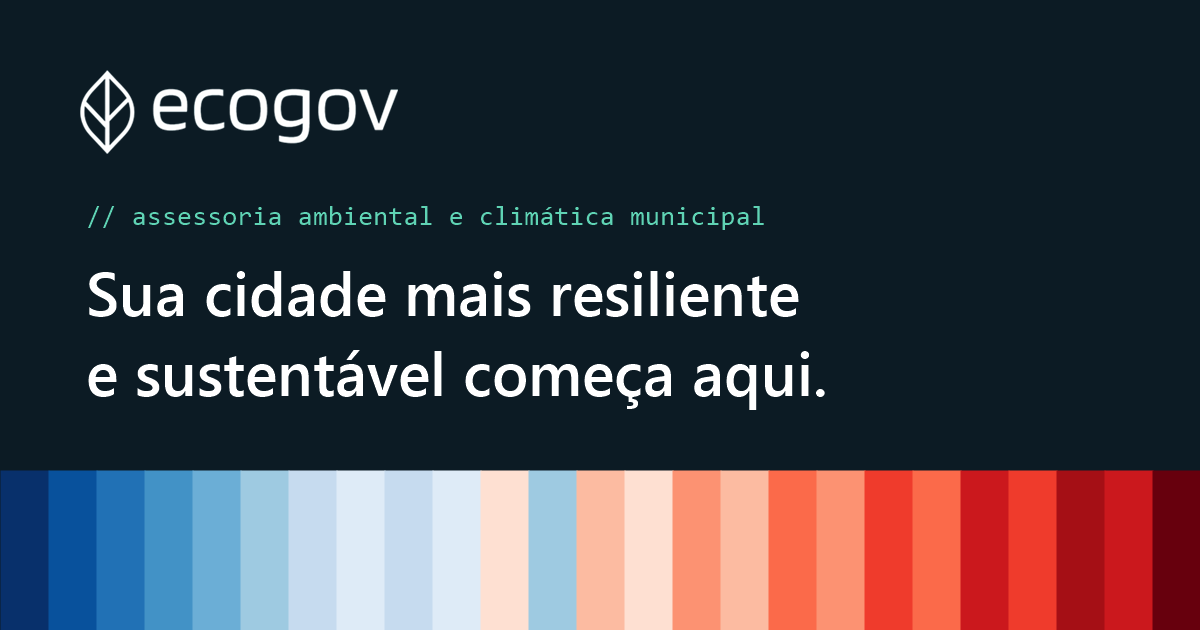
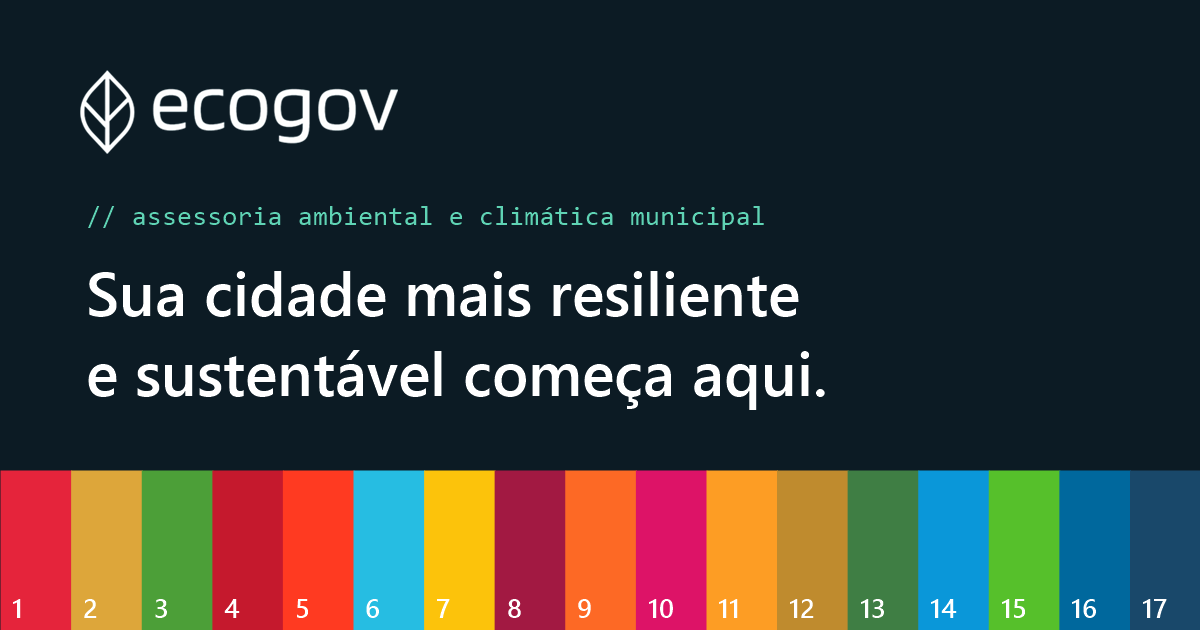
Faixa nas cores dos 17 ODS, silhuetas de fundo por seção, remove linha do CTA

Changed region(s): [[0.0, 0.7238, 1.0, 1.0]]

diff --git a/style.css b/style.css
@@ -1,6 +1,6 @@
 /* ==========================================================
    EcoGov — Assessoria Ambiental e Climática Municipal
-   HTML + CSS puro (sem JS). Direção visual: "Clima em Dados".
+   HTML + CSS puro (sem JS). Direção visual: "Clima em Dados" + faixa ODS.
    ========================================================== */
 
 :root {
@@ -22,13 +22,13 @@
   --gutter: clamp(16px, 4vw, 40px);
   --radius: 6px;
 
-  /* "warming stripes" — assinatura visual da marca (frio → quente) */
+  /* faixa nas cores oficiais dos 17 ODS da ONU — assinatura visual da marca */
   --stripes: linear-gradient(90deg,
-    #08306b 0 4%, #08519c 4% 8%, #2171b5 8% 12%, #4292c6 12% 16%, #6baed6 16% 20%,
-    #9ecae1 20% 24%, #c6dbef 24% 28%, #deebf7 28% 32%, #c6dbef 32% 36%, #deebf7 36% 40%,
-    #fee0d2 40% 44%, #9ecae1 44% 48%, #fcbba1 48% 52%, #fee0d2 52% 56%, #fc9272 56% 60%,
-    #fcbba1 60% 64%, #fb6a4a 64% 68%, #fc9272 68% 72%, #ef3b2c 72% 76%, #fb6a4a 76% 80%,
-    #cb181d 80% 84%, #ef3b2c 84% 88%, #a50f15 88% 92%, #cb181d 92% 96%, #67000d 96% 100%);
+    #E5243B 0 5.88%, #DDA63A 5.88% 11.76%, #4C9F38 11.76% 17.65%, #C5192D 17.65% 23.53%,
+    #FF3A21 23.53% 29.41%, #26BDE2 29.41% 35.29%, #FCC30B 35.29% 41.18%, #A21942 41.18% 47.06%,
+    #FD6925 47.06% 52.94%, #DD1367 52.94% 58.82%, #FD9D24 58.82% 64.71%, #BF8B2E 64.71% 70.59%,
+    #3F7E44 70.59% 76.47%, #0A97D9 76.47% 82.35%, #56C02B 82.35% 88.24%, #00689D 88.24% 94.12%,
+    #19486A 94.12% 100%);
 }
 
 *, *::before, *::after { box-sizing: border-box; }
@@ -143,7 +143,14 @@ h1 em, h2 em { font-style: normal; color: var(--mint); }
 
 /* faixa do clima */
 .climate-band { background: var(--panel); border-block: 1px solid var(--line); }
-.climate-band .stripes--band { height: clamp(90px, 14vw, 160px); }
+.ods-bar { display: grid; grid-template-columns: repeat(17, 1fr); height: clamp(90px, 14vw, 160px); }
+.ods-bar span { display: flex; align-items: flex-end; padding: 0 0 10px 8px; font: 700 clamp(13px, 1.6vw, 22px)/1 var(--f-display); color: rgba(255,255,255,.92); }
+.ods-bar span:nth-child(1){background:#E5243B} .ods-bar span:nth-child(2){background:#DDA63A} .ods-bar span:nth-child(3){background:#4C9F38}
+.ods-bar span:nth-child(4){background:#C5192D} .ods-bar span:nth-child(5){background:#FF3A21} .ods-bar span:nth-child(6){background:#26BDE2}
+.ods-bar span:nth-child(7){background:#FCC30B} .ods-bar span:nth-child(8){background:#A21942} .ods-bar span:nth-child(9){background:#FD6925}
+.ods-bar span:nth-child(10){background:#DD1367} .ods-bar span:nth-child(11){background:#FD9D24} .ods-bar span:nth-child(12){background:#BF8B2E}
+.ods-bar span:nth-child(13){background:#3F7E44} .ods-bar span:nth-child(14){background:#0A97D9} .ods-bar span:nth-child(15){background:#56C02B}
+.ods-bar span:nth-child(16){background:#00689D} .ods-bar span:nth-child(17){background:#19486A}
 .climate-copy { display: grid; grid-template-columns: 1.1fr 1fr; gap: clamp(24px, 5vw, 72px); padding-block: clamp(48px, 7vw, 80px); align-items: center; }
 .climate-copy h2 { font-size: clamp(26px, 3.2vw, 40px); }
 .climate-copy p { color: var(--muted); font-size: 18px; }
@@ -213,7 +220,6 @@ h1 em, h2 em { font-style: normal; color: var(--mint); }
 .cta-inner { padding-block: clamp(80px, 11vw, 140px); max-width: 860px; }
 .cta h2 { margin-bottom: 20px; }
 .cta p:not(.eyebrow) { color: var(--muted); font-size: 18px; margin: 0 auto 36px; max-width: 60ch; }
-.cta .cta-sub { font: 400 13px var(--f-mono); color: var(--dim); margin: 22px 0 0; }
 
 /* footer */
 .site-footer { border-top: 1px solid var(--line); padding: 36px 0 40px; font-size: 14px; color: var(--dim); }
@@ -288,3 +294,33 @@ h1 em, h2 em { font-style: normal; color: var(--mint); }
   html { scroll-behavior: auto; }
   * { transition: none !important; }
 }
+
+/* ---------- silhuetas de fundo (cidades verdes, clima, sustentabilidade) ---------- */
+.deco { position: relative; isolation: isolate; overflow: hidden; }
+.deco::after {
+  content: ""; position: absolute; z-index: -1; pointer-events: none;
+  background: no-repeat center / contain; opacity: .05;
+  width: clamp(200px, 30vw, 420px); aspect-ratio: 1;
+  top: clamp(32px, 6vw, 72px); right: -40px;
+}
+.deco--skyline::after {
+  width: auto; aspect-ratio: auto; left: 0; right: 0; top: auto; bottom: 0;
+  height: clamp(110px, 17vw, 230px);
+  background: url(img/deco/skyline.svg) repeat-x center bottom / auto 100%;
+  opacity: .06;
+}
+.deco--turbines::after { background-image: url(img/deco/turbines.svg); top: auto; bottom: 0; right: -20px; opacity: .045; }
+.deco--leaf::after     { background-image: url(img/deco/leaf.svg); }
+.deco--rain::after     { background-image: url(img/deco/cloud-rain.svg); }
+.deco--trees::after    { background-image: url(img/deco/trees.svg); }
+.deco--globe::after    { background-image: url(img/deco/globe.svg); }
+.deco--solar::after    { background-image: url(img/deco/sun-solar.svg); }
+.deco--faq::after      { background-image: url(img/deco/turbines.svg); top: auto; right: auto; bottom: 0; left: -30px; }
+
+@media (max-width: 880px) {
+  .deco::after { width: 200px; right: -50px; top: 24px; opacity: .04; }
+  .deco--skyline::after { width: auto; right: 0; top: auto; opacity: .05; }
+  .deco--turbines::after, .deco--faq::after { top: auto; bottom: 0; }
+  .ods-bar span { padding: 0 0 6px 3px; }
+}
+.hero.deco--skyline::after { opacity: .04; }

diff --git a/index.html b/index.html
@@ -81,7 +81,7 @@
 <main id="conteudo">
 
 <!-- HERO -->
-<section class="hero" id="topo">
+<section class="hero deco deco--skyline" id="topo">
   <div class="wrap hero-grid">
     <div class="hero-copy">
       <p class="eyebrow">// assessoria ambiental e climática municipal</p>
@@ -103,7 +103,7 @@
 </section>
 
 <!-- SOBRE -->
-<section class="section" id="sobre">
+<section class="section deco deco--turbines" id="sobre">
   <div class="wrap split">
     <div>
       <p class="eyebrow">// sobre a ecogov</p>
@@ -119,7 +119,7 @@
 
 <!-- FAIXA CLIMA -->
 <section class="climate-band" aria-labelledby="clima-titulo">
-  <div class="stripes stripes--band" aria-hidden="true"></div>
+  <div class="ods-bar" aria-hidden="true"><span>1</span><span>2</span><span>3</span><span>4</span><span>5</span><span>6</span><span>7</span><span>8</span><span>9</span><span>10</span><span>11</span><span>12</span><span>13</span><span>14</span><span>15</span><span>16</span><span>17</span></div>
   <div class="wrap climate-copy">
     <h2 id="clima-titulo">O clima já mudou. A pergunta é se a sua cidade está preparada.</h2>
     <p>Enchentes, secas, ondas de calor e surtos de dengue já chegam às prefeituras como problemas de saúde, obras, agricultura e orçamento. Quem se antecipa gasta menos e protege mais.</p>
@@ -127,7 +127,7 @@
 </section>
 
 <!-- SERVIÇOS -->
-<section class="section" id="servicos">
+<section class="section deco deco--leaf" id="servicos">
   <div class="wrap">
     <header class="section-head">
       <p class="eyebrow">// o que oferecemos</p>
@@ -195,7 +195,7 @@
 </section>
 
 <!-- COMO FUNCIONA -->
-<section class="section section--alt" id="como-funciona">
+<section class="section section--alt deco deco--rain" id="como-funciona">
   <div class="wrap">
     <header class="section-head">
       <p class="eyebrow">// como funciona</p>
@@ -212,7 +212,7 @@
 </section>
 
 <!-- SECRETARIAS -->
-<section class="section" id="secretarias">
+<section class="section deco deco--trees" id="secretarias">
   <div class="wrap">
     <header class="section-head">
       <p class="eyebrow">// público da capacitação</p>
@@ -233,7 +233,7 @@
 </section>
 
 <!-- ODS -->
-<section class="section section--alt" id="ods">
+<section class="section section--alt deco deco--globe" id="ods">
   <div class="wrap">
     <header class="section-head">
       <p class="eyebrow">// agenda 2030</p>
@@ -258,7 +258,7 @@
 </section>
 
 <!-- FORMATOS -->
-<section class="section" id="formatos">
+<section class="section deco deco--solar" id="formatos">
   <div class="wrap">
     <header class="section-head">
       <p class="eyebrow">// formatos de atuação</p>
@@ -300,7 +300,7 @@
 </section>
 
 <!-- FAQ -->
-<section class="section section--alt" id="faq">
+<section class="section section--alt deco deco--faq" id="faq">
   <div class="wrap faq-grid">
     <header class="section-head">
       <p class="eyebrow">// dúvidas frequentes</p>
@@ -336,14 +336,13 @@
 </section>
 
 <!-- CTA -->
-<section class="cta" id="contato">
+<section class="cta deco deco--skyline" id="contato">
   <div class="stripes stripes--band" aria-hidden="true"></div>
   <div class="wrap cta-inner">
     <p class="eyebrow">// pronto para começar?</p>
     <h2>Sua cidade merece uma gestão <em>preparada para o futuro</em></h2>
     <p>Apresentamos a proposta em uma conversa rápida e sem compromisso — e mostramos como o seu município pode avançar na agenda climática começando hoje, com o que já tem.</p>
     <a class="btn btn--lg" href="https://wa.me/5567991434600?text=Ol%C3%A1%2C%20vim%20pelo%20site%20da%20EcoGov%20e%20gostaria%20de%20conversar%20sobre%20o%20meu%20munic%C3%ADpio." target="_blank" rel="noopener">Falar com a EcoGov no WhatsApp</a>
-    <p class="cta-sub">Atendemos prefeitos, secretários e vereadores de todo o Brasil.</p>
   </div>
 </section>
 
